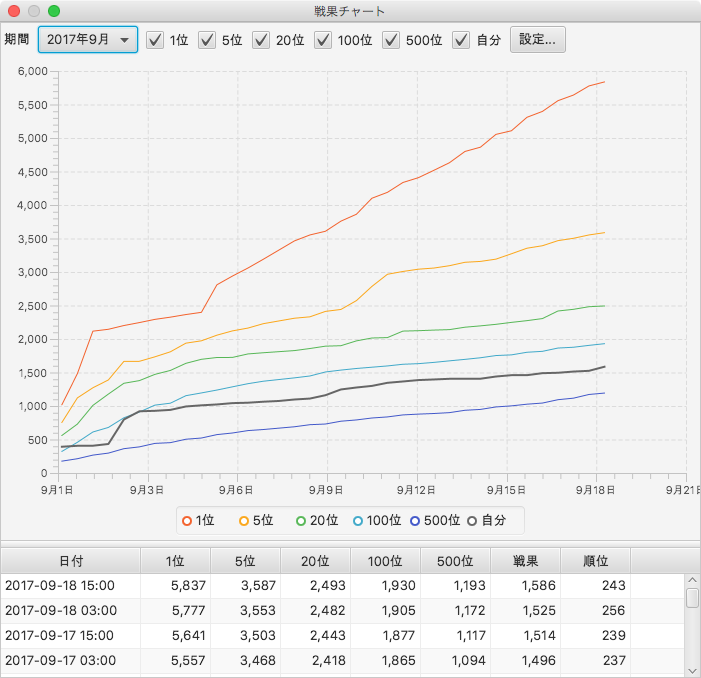
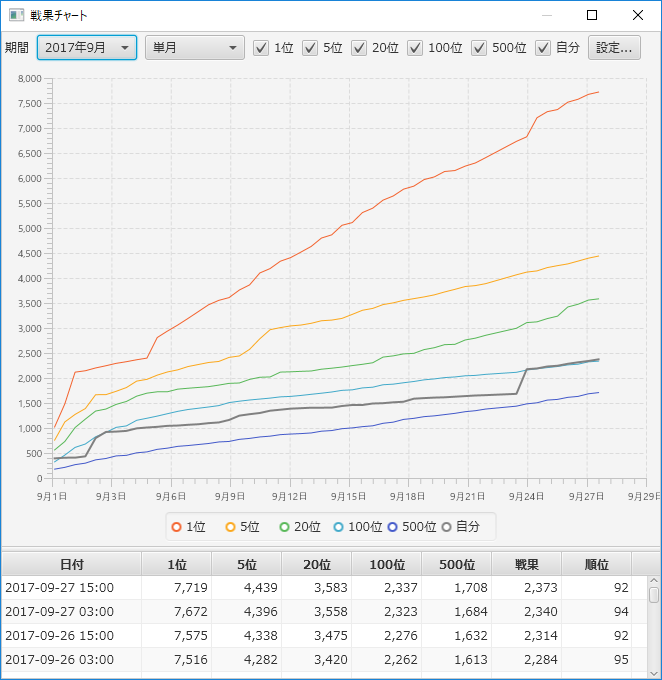
戦果チャートプラグインの戦果係数自動計算とMoMモードについてREADMEを更新

diff --git a/README.md b/README.md
@@ -44,20 +44,24 @@ sanaehirotakaさんの航海日誌 ([logbook-kai](https://github.com/sanaehirota
 
 ![戦果チャート画面](./img/rankingchart.png)
 
+チャートは単月表示のほか、前月/前(四半)期/前年と比較表示するモードもあります。
+
+![MoMモード](./img/rankingchart_mom.png)
+
 ### インストール方法
 
 [Releases](https://github.com/rsky/logbook-kai-plugins/releases)より **rankingchart.jar** をダウンロードして航海日誌の **plugins** フォルダに入れ、航海日誌を再起動してください。
 
-**インストール直後は戦果係数がないため、戦果を記録できません。下記手順に従って戦果係数を設定してください。**
+**インストール直後は戦果係数がないため、戦果を記録できません。ランキング1位から100位まで(1-10ページ)を閲覧すると自動で戦果係数が計算され、戦果を記録できるようになります。** もしそれでも記録できていないなら、下記手順に従って手動で戦果係数を設定してください。
 
-### 設定方法
+※メンテナンス後は戦果係数が変化しており、自動または手動で戦果係数を更新する必要がある場合が多いです。
+
+### 戦果係数の手動設定方法
 
 1. ブラウザで艦これの「マイランク」を表示します。
 2. 「その他」メニュー内の「戦果チャート」より戦果チャートウインドウを開きます。
 3. 「設定..」ボタンより戦果チャートの設定ウインドウを開きます。
 4. 「順位」欄に自分の順位が入力されていることを確認したら、「実戦果」欄に自分の戦果を半角数字で入力して「戦果係数を更新」ボタンを押せば設定完了です。いったん戦果チャートウインドウを閉じてください。
-
-**メンテナンス後に戦果が正しく記録されなくなったときは上記手順で戦果係数を更新してください。**
 
 ![戦果チャート設定画面](./img/rankingchart_config.png)
 
